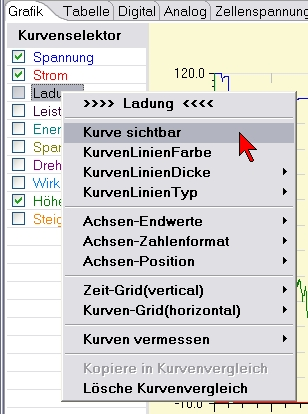
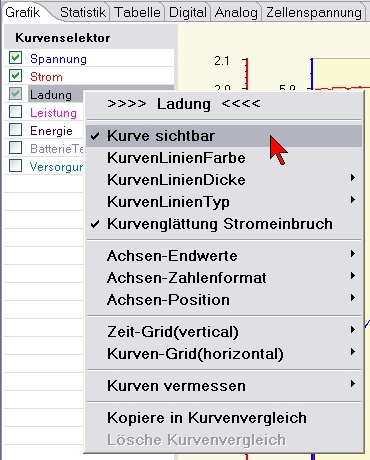
misc update

diff --git a/DataExplorer/src/help/de/HelpInfo_41.html b/DataExplorer/src/help/de/HelpInfo_41.html
@@ -106,8 +106,12 @@ Bedeutung. Da, bei den meisten Kurven, der Abstand zwischen den
 einzelnen Kurvenpunkten gering ist, ist die Wirkung in den meisten
 F&auml;llen nicht gegeben. Hier muss die Wirkung in Abh&auml;ngigkeit
 der Punktabst&auml;nde individuell ausprobiert werden.</P>
-<P><IMG SRC="images/CurveSelector_ContextMenue_Scale.png" NAME="graphics2" ALIGN=LEFT>Der
-n&auml;chste Block im Kontextmen&uuml; konfiguriert die Achsen und damit
+<P>Bei einigen Ladeger&auml;ten wird der Ladestrom f&uuml;r Messzwecke immer wieder abgesenkt, was bei entsprechend langer Ladezeit zu un&uuuml;bersichtlichen Kurvendarstellung f&uuml;hrt.
+Um diesen Darstellungseffekt auszugleichen kann man die <B>Kurvengl&auml;ttung Stromeinbruch</B> einschalten.
+Da die Gl&auml;ttung unterschiedlich gut funktioniert, kann man sie bei Bedarf ein oder aus schalten.</P>
+<P><IMG SRC="images/CurveSelector_ContextMenue_Smooth.png" NAME="Kurvengl&auml;ttung Stromeinbruch" ALIGN=CENTER>
+<P><IMG SRC="images/CurveSelector_ContextMenue_Scale.png" NAME="graphics2" ALIGN=LEFT>
+Der n&auml;chste Block im Kontextmen&uuml; konfiguriert die Achsen und damit
 auch die Skalen der jeweiligen Kurve. <B>Automatik</B> nimmt die Minimum
 und Maximum Werte, wie sie in den Kurvendaten vorkommen als
 Endbegrenzung. <B>Gerundet</B>, rundet in Abh&auml;ngigkeit der

diff --git a/DataExplorer/src/help/en/HelpInfo_41.html b/DataExplorer/src/help/en/HelpInfo_41.html
@@ -106,6 +106,11 @@ from the others.</P>
 visibility. Since the most curves has such small difference between data
 points there are only small impression changes. This has to be tested
 individually.</P>
+<P>Some battery chargers will drop the charge current for measurement purpose.
+This might result in bad curve visualization. 
+To make curves more clear it is possible to activate <B>Smooth current drop</B> function.
+Since the smoothing result depends on curves itself it can be activated or de-activated on demand.</P>
+<P><IMG SRC="images/CurveSelector_ContextMenue_Smooth.png" NAME="Smooth curves at current drop" ALIGN=CENTER>
 <P><IMG SRC="images/CurveSelector_ContextMenue_Scale.png" NAME="graphics2" ALIGN=LEFT>
 The next block <B>Axis end values</B> manipulates the scales. <B>Automatic</B>
 uses the real minimum and maximum values of the curve. <B>Rounded</B>,

diff --git a/DataExplorer/src/gde/data/Record.java b/DataExplorer/src/gde/data/Record.java
@@ -500,11 +500,11 @@ public class Record extends Vector<Integer> {
 					this.dropStartIndex = index; //reduce run in slope and reduce index by one measurement
 				}
 				else if (!this.dropIndexWritten) { // run into another drop while previous one is not handled
-					this.parent.currentDropShadow.add(new Integer[]{this.dropStartIndex-2, this.dropEndIndex-2});
+					this.parent.currentDropShadow.add(new Integer[]{this.dropStartIndex-2, index-2});
 					this.dropStartIndex = index; //reduce run in slope and reduce index by one measurement					
 					this.dropIndexWritten = true;
 				}
-				this.dropEndIndex = index + ((index - this.dropStartIndex) * 3);
+				this.dropEndIndex = index + ((index - this.dropStartIndex) * 4);
 			}
 			else { // normal data point
 				if (index > this.dropEndIndex && this.dropStartIndex != 0) {
